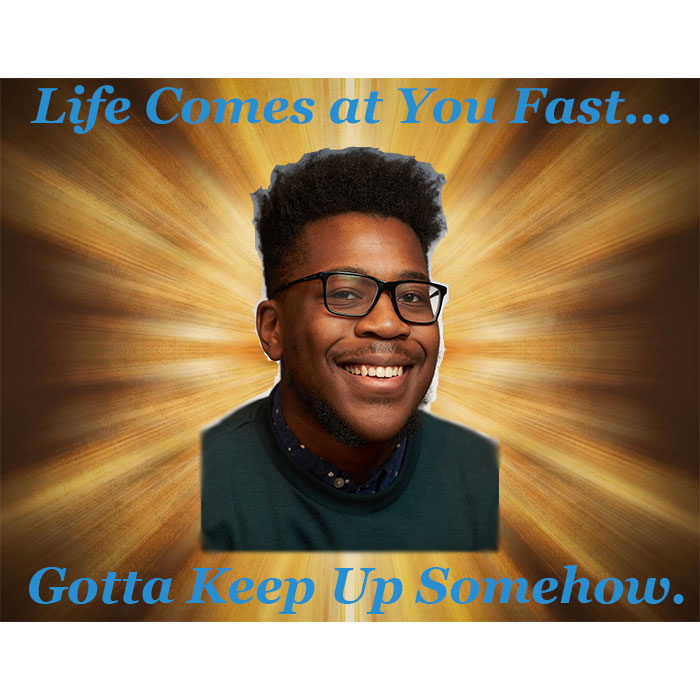
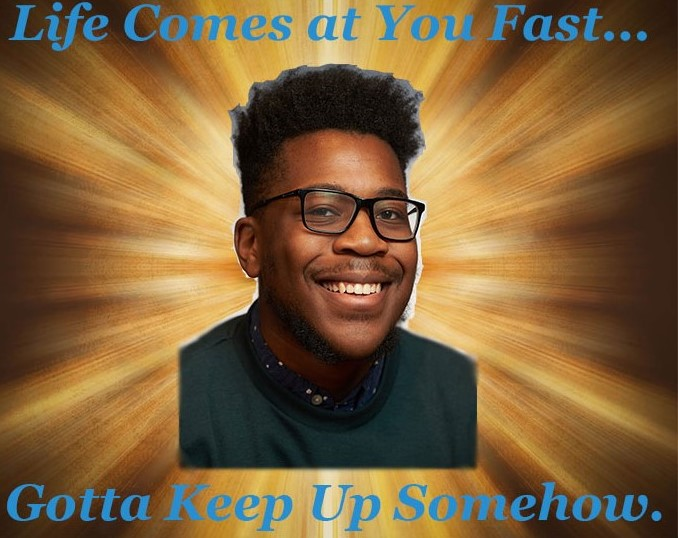
edited portfolio pic and changed colors around

diff --git a/lab07/index.html b/lab07/index.html
@@ -30,21 +30,9 @@
         <p>In 2017, Zach became a student at <strong>Syracuse University</strong>, studying Computer Science. 
             After a brief struggle with his grades, he switched gears and majored in Systems and Information Science, with interests in web design and data management.
             During this period, Zach joined the <strong>National Society of Black Engineers</strong> and was a DJ for the local radio station WJPZ FM.
-            He currently lives in Syracuse with his mother and his lovable, annoying cat.</p>
+            He currently lives in Syracuse with his mother.</p>
         
         <p>When he's not playing video games or watching movies, you can find Zach browsing his phone or sleeping.</p>
- 
-        <h2>Skills/Experience</h2>
-        
-        <ul>
-            <li>C</li>
-            <li>Java</li>
-            <li>Python</li>
-            <li>HTML</li>
-            <li>Microsoft SQL</li>
-            <li>Git</li>
-            <li>UNIX</li>
-        </ul> 
         
         &copy; 2021
     </body>

diff --git a/lab07/lab7styles.css b/lab07/lab7styles.css
@@ -1,9 +1,10 @@
-body {font-family:Arial, Helvetica, sans-serif; 
+body {font-family:Arial, Helvetica, sans-serif;
+    color:whitesmoke;
     background-color: #FA8072;}
-text{color: black}
 h1 {color: #004db4; }
 h2{color: #5C91B7;}
 table, th, td {border: 2px solid blue;}
-.evenrow {background-color: #4775B3;}
+.evenrow {background-color: #90A7C6;}
 nav{background-color: skyblue;}
-link{color: #90A7C6;}
+nav a{color: #4775B3;}
+nav a:hover{background-color: whitesmoke; }

diff --git a/lab07/Contact5.html b/lab07/Contact5.html
@@ -13,7 +13,7 @@
             <a href="index.html">Home</a> |
             <a href="Skills3.html">Skills</a> |
             <a href="Contact5.html">Contact Info</a>
-        </nav>
+        </nav><br><br>
         <img src= "../images/photoshop-portfolio.jpg" alt="headshot">
         <h1>Contact</h1>
 
